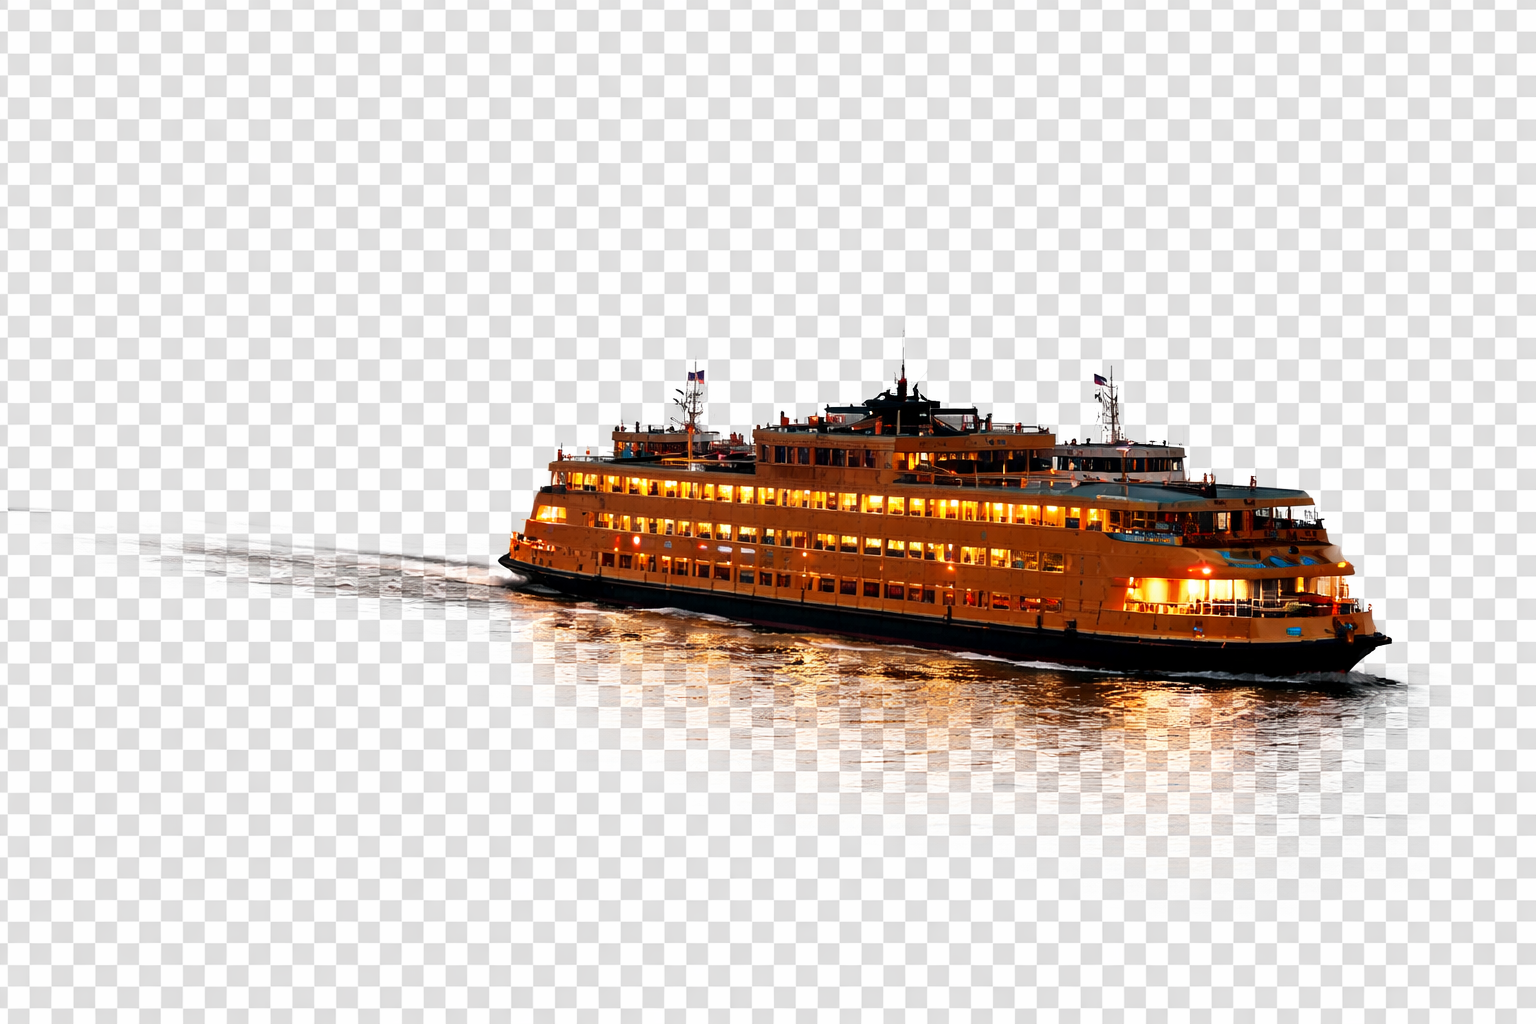
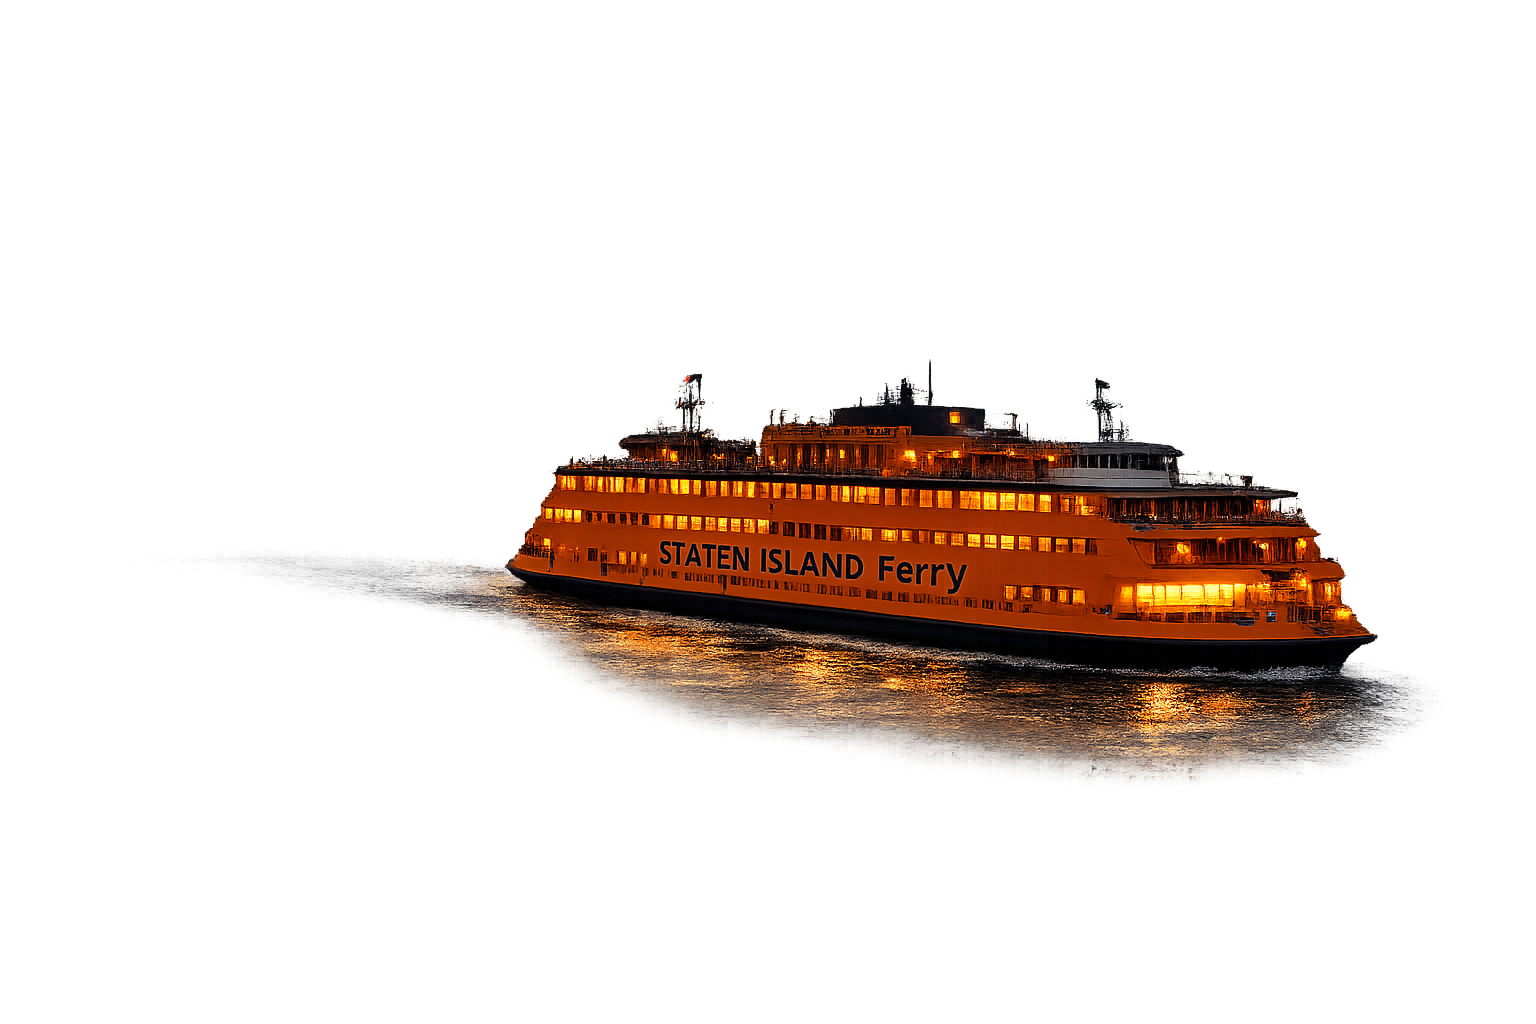
Refined hero section layout and font styles - added  background image to hero section, added ferry (need to add effect to this later) - styled the buttons to make it less like a link and made the colors match the ferry also a lot of adjustments to the spacing and the order/hierarchy

diff --git a/style.css b/style.css
@@ -1,4 +1,4 @@
-/* RESET */
+/* Reset this removes any default styles that happen automatically */
 * {
   margin: 0;
   padding: 0;
@@ -6,18 +6,19 @@
   font-family: Arial, sans-serif;
 }
 
-/* BODY */
+/* Body */
 body {
   background-color: #0a0a0a;
   color: #ffffff;
 }
 
-/* NAVBAR */
+/* NavBar */
 .navbar {
   display: flex;
   justify-content: space-between;
   align-items: center;
   padding: 20px;
+  background-color: #000;
 }
 
 .navList {
@@ -29,39 +30,140 @@ body {
   margin-left: 20px;
 }
 
+/* Logo Link */
+.logo-link {
+  text-decoration: none;
+  display: inline-block;
+}
+
+.logo-link:visited {
+  color: inherit;
+}
+
+.logo-link:hover {
+  text-decoration: none;
+}
+
+.nav-logo {
+  height: 60px;
+  width: auto;
+  display: block;
+}
+
+/* Buttons */
 .btn {
+  display: inline-block;
   text-decoration: none;
   color: white;
+  background-color: #d96a32;
+  padding: 12px 20px;
+  border-radius: 6px;
+  margin: 5px;
 }
 
-/* HERO */
+.btn:hover {
+  background-color: #b95425;
+}
+
+/* Hero */
 .hero {
+  position: relative;
+  height: 620px;
+  overflow: hidden;
+  padding: 0;
   text-align: center;
-  padding: 100px 20px;
 }
 
-.hero-buttons {
-  margin-top: 20px;
+.hero-letip {
+  color: #ffffff;
 }
 
-.hero-buttons .btn {
-  margin: 0 10px;
+.hero-roundtable {
+  color: #d96a32;
+  font-family: Georgia, serif;
+  font-style: italic;
+  font-weight: normal;
 }
 
-/* IDENTITY STRIP */
+/* background image */
+.hero-bg {
+  position: absolute;
+  top: 0;
+  left: 0;
+  width: 100%;
+  height: 100%;
+  object-fit: cover;
+}
+
+/* ferry */
+.hero-ferry {
+  position: absolute;
+  bottom: 65px;
+  right: 12%;
+  width: 360px;
+  opacity: 0.95;
+  z-index: 2;
+}
+
+/* text */
+.hero-text {
+  position: absolute;
+  top: 50%;
+  left: 50%;
+  transform: translate(-50%, -50%);
+  text-align: center;
+  width: 80%;
+  max-width: 900px;
+  z-index: 3;
+}
+
+.hero-text h2 {
+  font-size: 4rem;
+  margin-bottom: 8px;
+  line-height: 1.1;
+}
+
+.hero-subtitle {
+  font-size: 1.5rem;
+  margin-bottom: 18px;
+  font-weight: normal;
+  letter-spacing: 1px;
+}
+
+.hero-tagline {
+  font-size: 1.25rem;
+  margin-bottom: 25px;
+}
+
+.hero-text h2,
+.hero-subtitle,
+.hero-tagline {
+  text-shadow: 2px 2px 8px rgba(0, 0, 0, 0.8);
+}
+
+/* dark overlay */
+.hero::after {
+  content: "";
+  position: absolute;
+  inset: 0;
+  background: rgba(0, 0, 0, 0.35);
+  z-index: 1;
+}
+
+/* ID Strip */
 .identity-strip {
   text-align: center;
   padding: 20px;
   background-color: #111;
 }
 
-/* SECTIONS */
-section {
+/* Sections */
+section:not(.hero) {
   padding: 60px 20px;
   text-align: center;
 }
 
-/* LOGO GRID (placeholder for now) */
+/* LOGO GRID */
 .logo-grid {
   display: grid;
   grid-template-columns: repeat(3, 1fr);
@@ -106,4 +208,23 @@ section {
 
 .footer-tools .btn {
   margin: 0 10px;
+  color: white;
+}
+
+.footer-tools .btn:hover {
+  color: white;
+}
+
+.footer-bottom a {
+  color: #d96a32;
+  text-decoration: none;
+  margin: 0 5px;
+}
+
+.footer-bottom a:visited {
+  color: #d96a32;
+}
+
+.footer-bottom a:hover {
+  color: #ff7f45;
 }

diff --git a/index.html b/index.html
@@ -11,8 +11,8 @@
   <!-- Navigation -->
   <nav class="navbar">
     <div class="brand">
-      <a href="index.html" class="logo-link">
-        <h1 class="site-title">LeTip Round Table</h1>
+      <a href="https://letip.com/" class="logo-link">
+        <img src="images/logos/le-tip.png" alt="LeTip Home" class="nav-logo">
       </a>
     </div>
 
@@ -28,20 +28,25 @@
 
     <!-- Hero -->
     <section class="hero">
-      <!-- FIX THIS LATER: images will go here -->
-      <!-- <img src="images/background/header-bg.png" alt=""> -->
-      <!-- <img src="images/background/ferry.png" alt=""> -->
 
+      <!-- background image -->
+      <img src="images/background/header-bg.png" class="hero-bg" alt="Staten Island skyline">
+
+      <!-- ferry -->
+      <img src="images/background/ferry.png" class="hero-ferry" alt="Staten Island Ferry">
+
+      <!-- text -->
       <div class="hero-text">
-        <h2>LeTip Round Table</h2>
-        <h3>Staten Island Chapter</h3>
-        <p>Where local businesses connect through trusted referrals.</p>
+        <h2><span class="hero-letip">LeTip</span> <span class="hero-roundtable">Round Table</span></h2>
+        <p class="hero-subtitle">Staten Island Chapter</p>
+        <p class="hero-tagline">Where local businesses connect through trusted referrals.</p>
 
         <div class="hero-buttons">
           <a href="#directory" class="btn">Meet the Members</a>
           <a href="#about" class="btn">Learn More</a>
         </div>
       </div>
+
     </section>
 
     <!-- Section Divider -->
